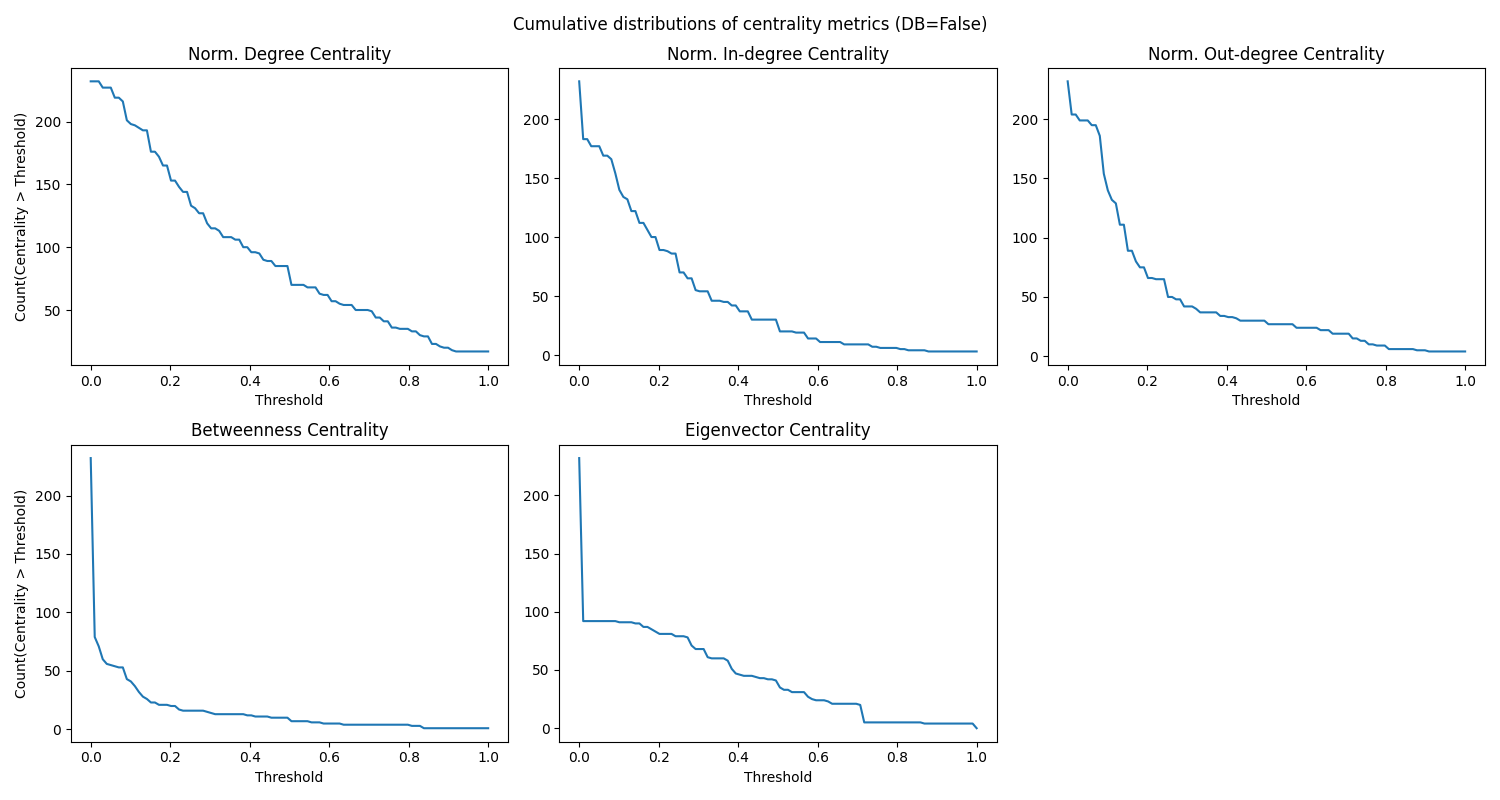
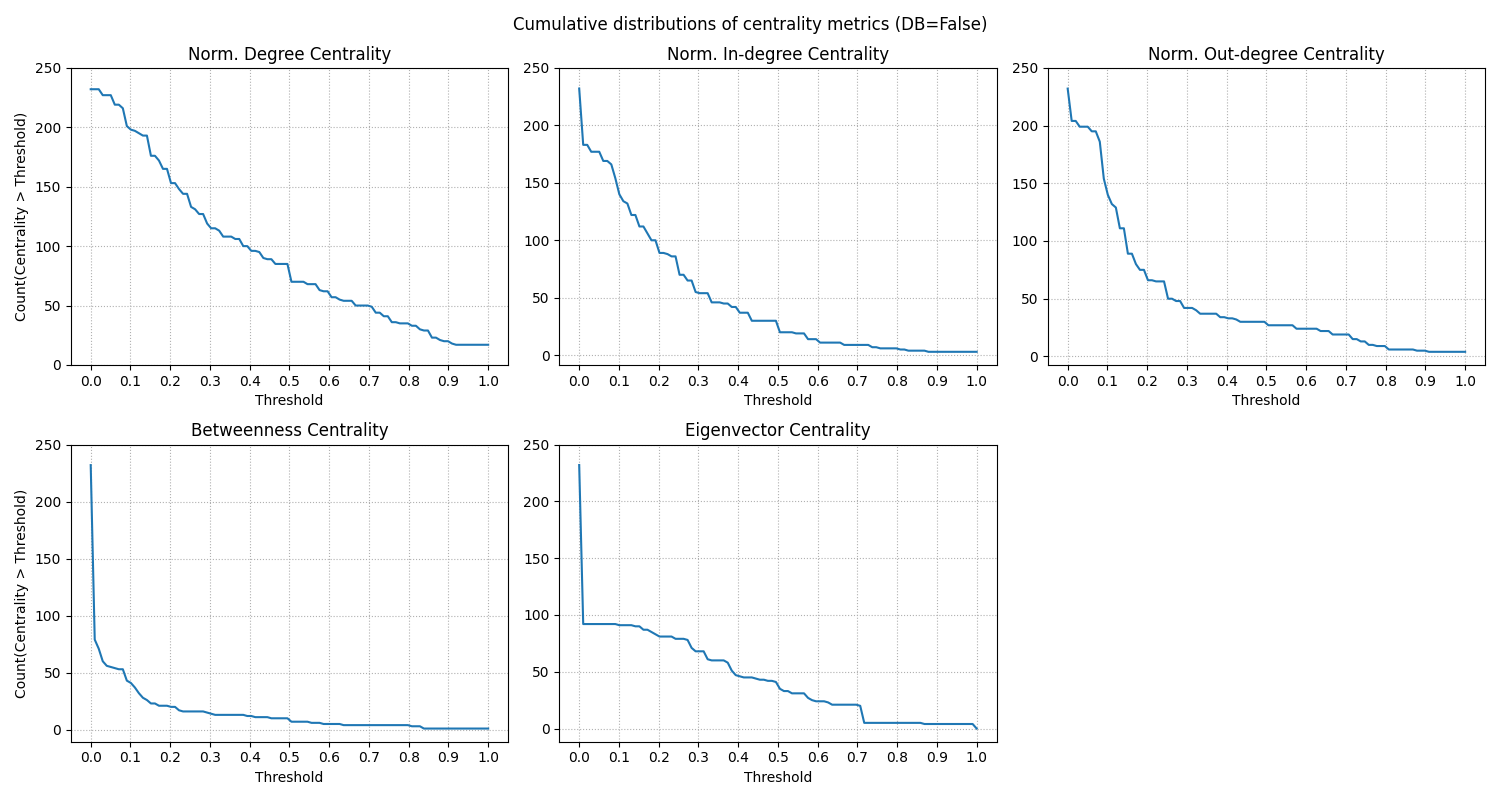
fix: prettyfy figures

diff --git a/figures.py b/figures.py
@@ -23,46 +23,67 @@ def plot_centrality_dist(metrics, DB: bool):
 
     plt.figure(figsize=(14,12))
     plt.subplot(331)
-    plt.plot(deg_dist[0], deg_dist[1])
+    plt.plot(deg_dist[0], deg_dist[1], color='tab:orange')
     plt.xlabel("Threshold")
     plt.ylabel("Count(Centrality > Threshold)")
+    plt.xticks([0,2,4,6,8,10,11],[0,2,4,6,8,10,11])
+    plt.yticks([0, 50, 100, 150, 200, 250], [0, 50, 100, 150, 200, 250])
     plt.title("Degree Centrality")
     plt.subplot(332)
     plt.plot(norm_deg_dist[0], norm_deg_dist[1])
     plt.xlabel("Threshold")
+    plt.xticks([0.0, 0.1, 0.2, 0.3, 0.4, 0.5, 0.6, 0.7, 0.8, 0.9, 1.0],
+               [0.0, 0.1, 0.2, 0.3, 0.4, 0.5, 0.6, 0.7, 0.8, 0.9, 1.0])
+    plt.yticks([0, 50, 100, 150, 200, 250], [0, 50, 100, 150, 200, 250])
     plt.title("Norm. Degree Centrality")
     plt.subplot(333)
     plt.plot(norm_deg_dist[0], norm_deg_dist[1])
     plt.plot(norm_deg_dist[0], deg_dist[1])
     plt.xlabel("Threshold")
+    plt.xticks([0.0, 1.0], ["min", "max"])
+    plt.yticks([0, 50, 100, 150, 200, 250], [0, 50, 100, 150, 200, 250])
     plt.title("Overlaid Degree Centrality")
     plt.subplot(334)
-    plt.plot(in_deg_dist[0], in_deg_dist[1])
+    plt.plot(in_deg_dist[0], in_deg_dist[1], color='tab:orange')
     plt.xlabel("Threshold")
     plt.ylabel("Count(Centrality > Threshold)")
+    plt.xticks([0,2,4,6,8,10,11],[0,2,4,6,8,10,11])
+    plt.yticks([0, 50, 100, 150, 200, 250], [0, 50, 100, 150, 200, 250])
     plt.title("In-degree Centrality")
     plt.subplot(335)
     plt.plot(norm_in_deg_dist[0], norm_in_deg_dist[1])
     plt.xlabel("Threshold")
+    plt.xticks([0.0, 0.1, 0.2, 0.3, 0.4, 0.5, 0.6, 0.7, 0.8, 0.9, 1.0],
+               [0.0, 0.1, 0.2, 0.3, 0.4, 0.5, 0.6, 0.7, 0.8, 0.9, 1.0])
+    plt.yticks([0, 50, 100, 150, 200, 250], [0, 50, 100, 150, 200, 250])
     plt.title("Norm. In-degree Centrality")
     plt.subplot(336)
     plt.plot(norm_in_deg_dist[0], norm_in_deg_dist[1])
     plt.plot(norm_in_deg_dist[0], in_deg_dist[1])
     plt.xlabel("Threshold")
+    plt.xticks([0.0, 1.0], ["min", "max"])
+    plt.yticks([0, 50, 100, 150, 200, 250], [0, 50, 100, 150, 200, 250])
     plt.title("Overlaid In-degree Centrality")
     plt.subplot(337)
-    plt.plot(out_deg_dist[0], out_deg_dist[1])
+    plt.plot(out_deg_dist[0], out_deg_dist[1], color='tab:orange')
     plt.xlabel("Threshold")
     plt.ylabel("Count(Centrality > Threshold)")
+    plt.xticks([0,2,4,6,8,10,11],[0,2,4,6,8,10,11])
+    plt.yticks([0, 50, 100, 150, 200, 250], [0, 50, 100, 150, 200, 250])
     plt.title("Out-degree Centrality")
     plt.subplot(338)
     plt.plot(norm_out_deg_dist[0], norm_out_deg_dist[1])
     plt.xlabel("Threshold")
+    plt.xticks([0.0, 0.1, 0.2, 0.3, 0.4, 0.5, 0.6, 0.7, 0.8, 0.9, 1.0],
+               [0.0, 0.1, 0.2, 0.3, 0.4, 0.5, 0.6, 0.7, 0.8, 0.9, 1.0])
+    plt.yticks([0, 50, 100, 150, 200, 250], [0, 50, 100, 150, 200, 250])
     plt.title("Norm. Out-degree Centrality")
     plt.subplot(339)
     plt.plot(norm_out_deg_dist[0], norm_out_deg_dist[1])
     plt.plot(norm_out_deg_dist[0], out_deg_dist[1])
     plt.xlabel("Threshold")
+    plt.xticks([0.0, 1.0], ["min", "max"])
+    plt.yticks([0, 50, 100, 150, 200, 250], [0, 50, 100, 150, 200, 250])
     plt.title("Overlaid Out-degree Centrality")
     plt.suptitle(f"Comparison of Absolute and Normalized\n Cumulative Distributions of Degree centralities (DB={DB})\n")
     plt.tight_layout()
@@ -73,23 +94,43 @@ def plot_centrality_dist(metrics, DB: bool):
     plt.plot(norm_deg_dist[0], norm_deg_dist[1])
     plt.xlabel("Threshold")
     plt.ylabel("Count(Centrality > Threshold)")
+    plt.xticks([0.0, 0.1, 0.2, 0.3, 0.4, 0.5, 0.6, 0.7, 0.8, 0.9, 1.0],
+               [0.0, 0.1, 0.2, 0.3, 0.4, 0.5, 0.6, 0.7, 0.8, 0.9, 1.0])
+    plt.yticks([0, 50, 100, 150, 200, 250], [0, 50, 100, 150, 200, 250])
+    plt.grid(linestyle=':')
     plt.title("Norm. Degree Centrality")
     plt.subplot(232)
     plt.plot(norm_in_deg_dist[0], norm_in_deg_dist[1])
     plt.xlabel("Threshold")
+    plt.xticks([0.0, 0.1, 0.2, 0.3, 0.4, 0.5, 0.6, 0.7, 0.8, 0.9, 1.0],
+               [0.0, 0.1, 0.2, 0.3, 0.4, 0.5, 0.6, 0.7, 0.8, 0.9, 1.0])
+    plt.yticks([0, 50, 100, 150, 200, 250], [0, 50, 100, 150, 200, 250])
+    plt.grid(linestyle=':')
     plt.title("Norm. In-degree Centrality")
     plt.subplot(233)
     plt.plot(norm_out_deg_dist[0], norm_out_deg_dist[1])
     plt.xlabel("Threshold")
+    plt.xticks([0.0, 0.1, 0.2, 0.3, 0.4, 0.5, 0.6, 0.7, 0.8, 0.9, 1.0],
+               [0.0, 0.1, 0.2, 0.3, 0.4, 0.5, 0.6, 0.7, 0.8, 0.9, 1.0])
+    plt.yticks([0, 50, 100, 150, 200, 250], [0, 50, 100, 150, 200, 250])
+    plt.grid(linestyle=':')
     plt.title("Norm. Out-degree Centrality")
     plt.subplot(234)
     plt.plot(bet_dist[0], bet_dist[1])
     plt.xlabel("Threshold")
+    plt.xticks([0.0, 0.1, 0.2, 0.3, 0.4, 0.5, 0.6, 0.7, 0.8, 0.9, 1.0],
+               [0.0, 0.1, 0.2, 0.3, 0.4, 0.5, 0.6, 0.7, 0.8, 0.9, 1.0])
+    plt.yticks([0, 50, 100, 150, 200, 250], [0, 50, 100, 150, 200, 250])
+    plt.grid(linestyle=':')
     plt.ylabel("Count(Centrality > Threshold)")
     plt.title("Betweenness Centrality")
     plt.subplot(235)
     plt.plot(eig_dist[0], eig_dist[1])
     plt.xlabel("Threshold")
+    plt.xticks([0.0, 0.1, 0.2, 0.3, 0.4, 0.5, 0.6, 0.7, 0.8, 0.9, 1.0],
+               [0.0, 0.1, 0.2, 0.3, 0.4, 0.5, 0.6, 0.7, 0.8, 0.9, 1.0])
+    plt.yticks([0, 50, 100, 150, 200, 250], [0, 50, 100, 150, 200, 250])
+    plt.grid(linestyle=':')
     plt.title("Eigenvector Centrality")
     plt.suptitle(f"Cumulative distributions of centrality metrics (DB={DB})")
     plt.tight_layout()
